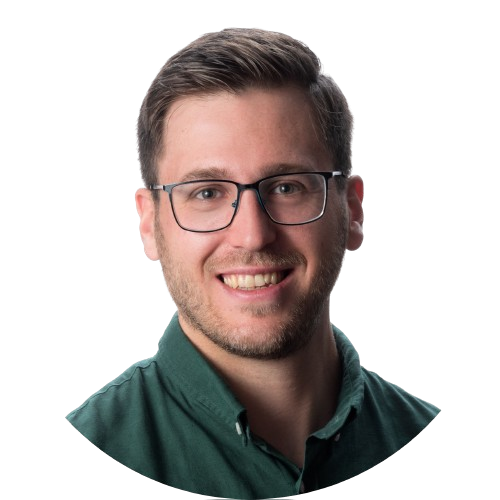
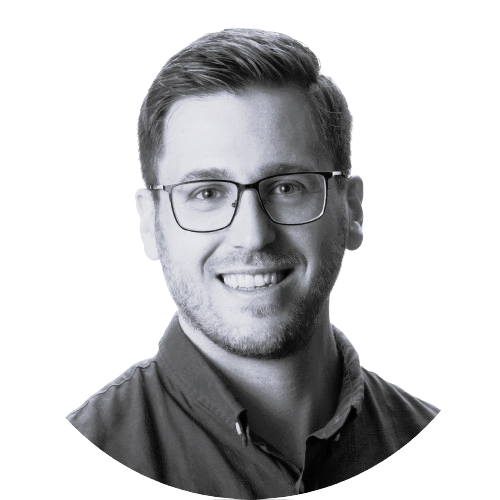
Changed picture

Changed region(s): [[0.12, 0.03, 0.9, 1.0], [0.63, 0.12, 0.69, 0.21]]

diff --git a/src/style.css b/src/style.css
@@ -1,21 +1,20 @@
 body{
-    background-color: #00975d;
+    background-color: #555;
     font-family:Arial, Helvetica, sans-serif;
     text-align: center;
     color: #303030;
 }
 .container{
     width: 90%;
+    max-width: 1200px;
     background-color: #272727;
     color: #ccc;
-    border: 1px solid #00975d;
+    border: 1px solid #555;
     border-radius: 10px;
-    box-shadow: 0px 5px 10px #004d2f;
+    box-shadow: 0px 5px 10px #aaa;
     margin: auto;
 }
-hr{
-    border: 1px solid #00975d31;
-}
+
 .divSkills{
     background-color: #303030;
     color: #ccc;
@@ -32,6 +31,14 @@ hr{
     text-align: center;
     padding: 8px;
 }
+a{
+    text-decoration: none;
+    color: #fafafa;
+}
+a:hover{
+    color: #555;
+}
+
 h1, h2, h3{
     margin: 35px;
 }
@@ -39,13 +46,18 @@ p{
     color: #aaaaaa;
 }
 b{
-    color: #00975d;
+    color: #555;
 }
 img{
     max-width: 250px;
     height: auto;
     filter: drop-shadow(0px 2px 10px #555 );
     margin: 2em;
+}
+nav{
+    background-color: #1f1f1f;
+    padding: 10px;
+    margin-bottom: 25px;
 }
 ul{
     list-style-type: none;
@@ -58,55 +70,49 @@ li{
     text-align: end;
 }
 li a{
-    color: #00975d;
+    color: #aaa;
     text-decoration: none;
     margin: 5px 5px;
-    font-size: 1.3em;
-    padding: 8px;
+    font-size: 1.2em;
+    padding: 10px;
 }
 li a:hover{
-    color: #00975d;
-    background-color: #272727;
-    border-radius: 10px;
+    color: #fafafa;
+    background-color: #2e2e2e;
+    border-radius: 5px;
 }
+
 form{
-    width: 100%;
-    max-width: 400px;
+    width: 90%;
+    max-width: 600px;
     margin: auto;
 }
 
-input{
-    width: 100%;
-    padding: 10px;
-    border: 1px solid #00975d;
-    border-radius: 5px;
-    background-color: #272727;
-    color: #ccc;
-} 
 textarea{
-    width: 100%;
+    width: 90%;
     padding: 10px;
-    border: 1px solid #00975d;
+    max-width: 600px;
+    border: 1px solid #555;
     border-radius: 5px;
     background-color: #272727;
     color: #ccc;
     font-family:Arial, Helvetica, sans-serif;
-
+    margin-bottom: 5px;
 }
 button{
     width: 100%;
-    max-width: 400px;
+    max-width: 250px;
     padding: 10px;
     background-color: #1f1f1f;
-    color: #00975d;
-    border: 1px solid #00975d;
+    color: #aaa;
+    border: 1px solid #555;
     border-radius: 10px;
     font-size: 1em;
     margin: 5px;
 }
 button:hover{
-    border: 1px solid #33c58d;
-    color: #33c58d;
+    border: 1px solid #fafafa;
+    color: #fafafa;
     cursor: pointer;
 }
 
@@ -121,10 +127,10 @@ footer a{
 }
 footer a:hover{
     text-decoration: underline;
-    color: #00975d;
+    color: #555;
 }
 
 ::selection{
-    background-color: #00975d;
+    background-color: #555;
     color: #1f1f1f;
 }

diff --git a/index.html b/index.html
@@ -13,23 +13,22 @@
         <header>
             <nav>
                 <ul>
-                    <li><a href="#">About me</a></li>
-                    <li><a href="#">Skills</a></li>
-                    <li><a href="#">Portfolio</a></li>
+                    <li><a href="#aboutme">&Uuml;ber mich</a></li>
+                    <li><a href="#skills">Skills</a></li>
+                    <li><a href="#contact">Kontakt</a></li>
                 </ul>
             </nav>
         </header>
-        <hr>
         <main>
             <section id="aboutme">
-                <h2>About me</h2>
                 <img src="src/img/23116BW036.png" alt="">
                 <p>Hallo, mein Name ist J&uuml;rgen Mosgan.</p>
                 <p>Angehender Web Developer und Linux Enthusiast.</b></p>
+                <p>Einige meiner Projekte finden Sie auf meinem <a href="https://github.com/juergenrose">GitHub Profil</a>.</p>
             </section>
             <br>
             <section id="skills">
-                <h2>Skills</h2>
+                <h2>SKILLS</h2>
                 <div class="divSkills">
                     <ul>
                         <li>HTML</li>
@@ -42,7 +41,6 @@
                         <li>Git</li>
                         <li>WordPress</li>
                         <li>VS Code</li>
-                        <li>Intellij IDEA</li>
                         <li>MS Office</li>
                         <li>Google Workspace</li>
                         <li>Jira</li>
@@ -52,17 +50,12 @@
                     </ul>
                 </div>
             </section>
-            <section id="portfolio">
-                <h2>Portfolio</h2>
-            </section>
+            <br>
             <section id="contact">
-                <h2>Kontakt</h2>
+                <h2>KONTAKT</h2>
                 <p>Sie wollen ein Projekt umsetzen? Hier k&ouml;nnen Sie mit mir Kontakt aufnehmen.</p>
-                <form action="">
-                    <input type="email" name="email" id="" placeholder="Email angeben">
-                    <br>
-                    <textarea id="subject" name="subject" placeholder="Wie kann ich Ihnen helfen?"" style="
-                        height:200px"></textarea>
+                <form action="mailto:j.mosgan@gmail.com">
+                    <textarea id="body" name="body" placeholder="Wie kann ich Ihnen helfen?"" style="height:200px"></textarea>
                     <br>
                     <button>Senden</button>
                 </form>
